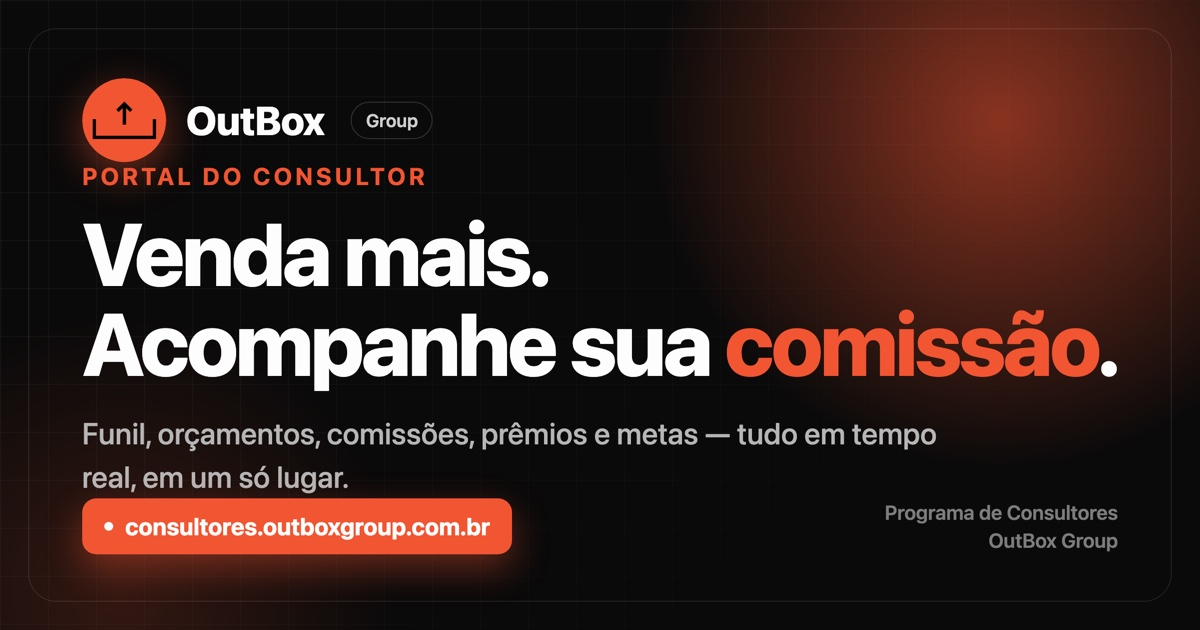
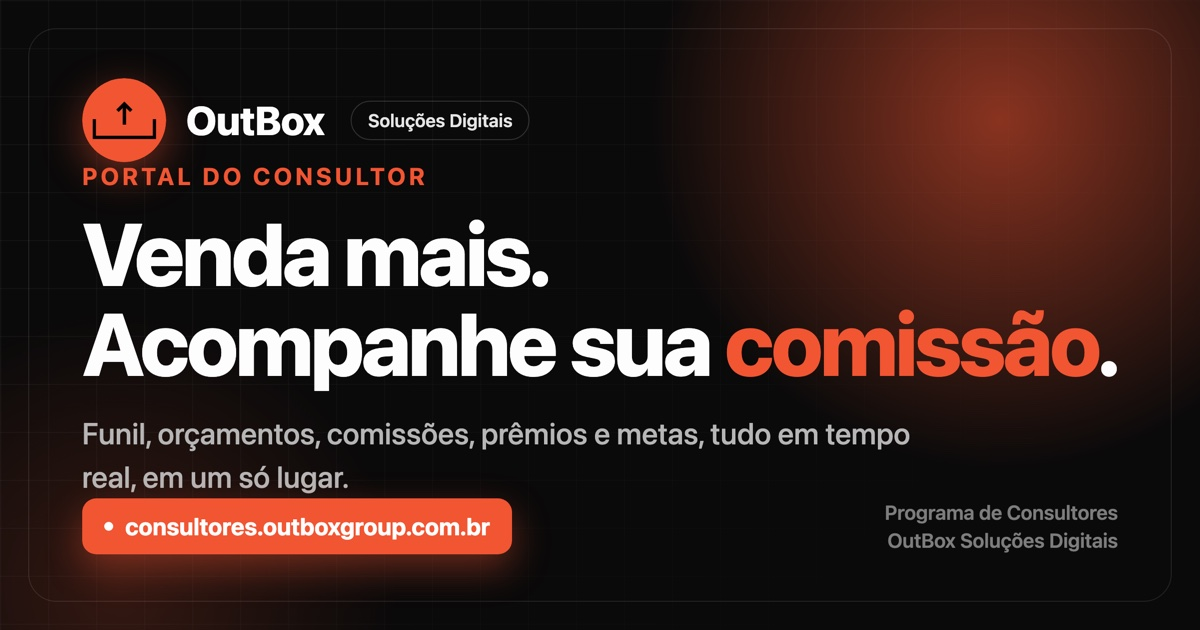
brand: descritor 'OutBox Solucoes Digitais' no sistema + OpenGraph
- Substitui 'OutBox Group' por 'OutBox Solucoes Digitais' nos textos de marca (login, orcamento, docs, aceite); mantem dominio/email outboxgroup.com.br
- Descritor 'Solucoes Digitais' na sidebar (abaixo do logo)
- OG image e meta tags atualizados com o descritor

Changed region(s): [[0.5858, 0.6635, 0.7708, 0.7238], [0.74, 0.8444, 0.925, 0.8746], [0.3083, 0.181, 0.4317, 0.2413]]

diff --git a/js/consultor.js b/js/consultor.js
@@ -640,7 +640,7 @@ const Consultor = {
 <link href="https://fonts.googleapis.com/css2?family=Inter:wght@400;500;600;700;800;900&display=swap" rel="stylesheet">
 <style>:root{--brand:#F15532;--ink:#0A0A0A;--soft:#46505c;--mut:#8a96a3;--bg:#F5F7F9;--line:#e6eaef}*{box-sizing:border-box;margin:0;padding:0}body{font-family:'Inter',sans-serif;color:var(--ink);background:var(--bg);line-height:1.6;-webkit-print-color-adjust:exact;print-color-adjust:exact}.page{max-width:820px;margin:0 auto;background:#fff;min-height:100vh;box-shadow:0 10px 40px rgba(0,0,0,.06)}.cover{background:linear-gradient(135deg,#F15532,#e0431f);color:#fff;padding:40px 48px}.brand{display:flex;align-items:center;gap:12px;margin-bottom:22px}.brand b{font-size:24px;font-weight:800}.cover h1{font-size:30px;font-weight:800;letter-spacing:-.02em}.cover p{color:rgba(255,255,255,.9);margin-top:4px}.body{padding:38px 48px}.grid{display:grid;grid-template-columns:1fr 1fr;gap:8px 24px;margin-bottom:28px;font-size:14px}.grid .lbl{color:var(--mut);font-size:12px;text-transform:uppercase;letter-spacing:.04em}.tbl{width:100%;border-collapse:collapse;margin-bottom:18px}.tbl th{text-align:left;padding:12px 14px;background:var(--bg);border-bottom:2px solid var(--line);font-size:12px;text-transform:uppercase;color:var(--mut)}.tbl td{padding:14px;border-bottom:1px solid var(--line)}.tot{display:flex;justify-content:flex-end}.tot .box{min-width:280px}.tot .row{display:flex;justify-content:space-between;padding:8px 0;font-size:15px;color:var(--soft)}.tot .grand{border-top:2px solid var(--line);margin-top:6px;padding-top:14px;font-size:22px;font-weight:800;color:var(--ink)}.tot .grand b{color:var(--brand)}.note{margin-top:26px;padding:16px 18px;background:var(--bg);border-radius:12px;font-size:13px;color:var(--soft);border:1px solid var(--line)}.foot{border-top:1px solid var(--line);padding:24px 48px;color:var(--mut);font-size:13px;display:flex;justify-content:space-between;flex-wrap:wrap;gap:10px}.foot b{color:var(--ink)}.print-hint{position:fixed;bottom:16px;right:16px;background:var(--brand);color:#fff;padding:10px 16px;border-radius:10px;font-weight:600;cursor:pointer;border:none;box-shadow:0 8px 20px rgba(241,85,50,.3)}.cta{display:flex;gap:12px;flex-wrap:wrap;margin:26px 0 4px}.cta a,.cta span{flex:1;min-width:200px;text-align:center;padding:16px 20px;border-radius:12px;font-weight:700;font-size:15px;text-decoration:none;display:inline-flex;align-items:center;justify-content:center;gap:8px;transition:transform .1s,box-shadow .2s}.cta a:active{transform:translateY(1px)}.cta .accept{background:var(--brand);color:#fff;box-shadow:0 8px 20px rgba(241,85,50,.28)}.cta .pay{background:#16a34a;color:#fff;box-shadow:0 8px 20px rgba(22,163,74,.26)}.cta .done{background:#e8f7ee;color:#15803d;border:1px solid #b7e4c7;box-shadow:none}@media print{.print-hint{display:none}.cta{display:none}.page{box-shadow:none}}</style></head>
 <body><div class="page">
-  <div class="cover"><div class="brand">${mark}<b>OutBox</b></div><h1>Proposta de Orçamento</h1><p>Preparada por ${u.nome || ''} ${u.sobrenome || ''} · Consultor OutBox Group</p></div>
+  <div class="cover"><div class="brand">${mark}<b>OutBox</b></div><h1>Proposta de Orçamento</h1><p>Preparada por ${u.nome || ''} ${u.sobrenome || ''} · Consultor OutBox Soluções Digitais</p></div>
   <div class="body">
     <div class="grid">
       <div><div class="lbl">Cliente</div>${cli ? cli.nome : '-'}</div>
@@ -649,7 +649,7 @@ const Consultor = {
       <div><div class="lbl">Validade</div>${val.toLocaleDateString('pt-BR')}</div>
     </div>
     <table class="tbl"><thead><tr><th>Serviço</th><th style="text-align:right">Valor</th></tr></thead>
-      <tbody><tr><td><b>${p ? p.nome : s.produto}</b><br><span style="color:var(--mut);font-size:13px">Desenvolvido pela OutBox Group</span></td><td style="text-align:right">${OB.money(s.valorBruto || s.valor, s.moeda)}</td></tr></tbody></table>
+      <tbody><tr><td><b>${p ? p.nome : s.produto}</b><br><span style="color:var(--mut);font-size:13px">Desenvolvido pela OutBox Soluções Digitais</span></td><td style="text-align:right">${OB.money(s.valorBruto || s.valor, s.moeda)}</td></tr></tbody></table>
     <div class="tot"><div class="box">
       <div class="row"><span>Subtotal</span><span>${OB.money(s.valorBruto || s.valor, s.moeda)}</span></div>
       ${temDesc ? `<div class="row"><span>Desconto ${s.descontoTipo === 'percent' ? '(' + s.descontoValor + '%)' : ''}</span><span>- ${OB.money((s.valorBruto || s.valor) - s.valor, s.moeda)}</span></div>` : ''}
@@ -668,7 +668,7 @@ const Consultor = {
     })()}
     <div class="note">Esta proposta tem validade de 7 dias. Ao aprovar, iniciamos o briefing e o cronograma do seu projeto.</div>
   </div>
-  <div class="foot"><div>OutBox Group · Proposta comercial<br><b>${u.email || 'felipe@outboxgroup.com.br'}</b>${u.celular ? ' · ' + u.celular : ''}</div><div>www.outboxgroup.com.br<br>Santa Cruz do Rio Pardo · SP</div></div>
+  <div class="foot"><div>OutBox Soluções Digitais · Proposta comercial<br><b>${u.email || 'felipe@outboxgroup.com.br'}</b>${u.celular ? ' · ' + u.celular : ''}</div><div>www.outboxgroup.com.br<br>Santa Cruz do Rio Pardo · SP</div></div>
 </div><button class="print-hint" onclick="window.print()">Salvar como PDF / Imprimir</button></body></html>`;
   },
   /* abre o orçamento renderizado em uma nova aba (apenas visualização) */
@@ -1261,7 +1261,7 @@ const Consultor = {
       ${secoes}
     </div>
     <div class="foot">
-      <div>OutBox Group · Programa de Consultores<br><b>felipe@outboxgroup.com.br</b> · (47) 9.9659-7775</div>
+      <div>OutBox Soluções Digitais · Programa de Consultores<br><b>felipe@outboxgroup.com.br</b> · (47) 9.9659-7775</div>
       <div>www.outboxgroup.com.br<br>Santa Cruz do Rio Pardo · SP</div>
     </div>
   </div>
@@ -1343,7 +1343,7 @@ const Consultor = {
         <div>
           <div class="card" style="margin-bottom:18px">
             <div class="card-head"><h3>Precisa de ajuda?</h3></div>
-            <p class="soft" style="font-size:14px;margin-bottom:16px">Fale direto com o time da OutBox Group. Respondemos em horário comercial.</p>
+            <p class="soft" style="font-size:14px;margin-bottom:16px">Fale direto com o time da OutBox Soluções Digitais. Respondemos em horário comercial.</p>
             <a class="btn green block" href="https://wa.me/5547996597775?text=Ol%C3%A1!%20Preciso%20de%20ajuda%20com%20o%20sistema%20de%20consultores." target="_blank" rel="noopener" style="margin-bottom:10px">${UI.icon('whats',16)} Falar no WhatsApp</a>
             <a class="btn ghost block" href="mailto:felipe@outboxgroup.com.br">${UI.icon('mail',16)} felipe@outboxgroup.com.br</a>
           </div>

diff --git a/index.html b/index.html
@@ -4,29 +4,29 @@
   <meta charset="UTF-8"/>
   <meta name="viewport" content="width=device-width, initial-scale=1, viewport-fit=cover"/>
   <title>OutBox Consultores — Portal de Vendas</title>
-  <meta name="description" content="Portal do Consultor OutBox Group: vendas, clientes, comissões, prêmios e metas em tempo real."/>
+  <meta name="description" content="Portal do Consultor OutBox Soluções Digitais: vendas, clientes, comissões, prêmios e metas em tempo real."/>
   <meta name="theme-color" content="#F15532"/>
   <link rel="icon" href="assets/logo-mark.svg" type="image/svg+xml"/>
 
   <!-- OpenGraph (compartilhamento de link) -->
   <meta property="og:type" content="website"/>
-  <meta property="og:site_name" content="OutBox Group"/>
+  <meta property="og:site_name" content="OutBox Soluções Digitais"/>
   <meta property="og:locale" content="pt_BR"/>
   <meta property="og:url" content="https://consultores.outboxgroup.com.br/"/>
-  <meta property="og:title" content="Portal do Consultor · OutBox Group"/>
+  <meta property="og:title" content="Portal do Consultor · OutBox Soluções Digitais"/>
   <meta property="og:description" content="Funil, orçamentos, comissões, prêmios e metas — tudo em tempo real, em um só lugar."/>
-  <meta property="og:image" content="https://consultores.outboxgroup.com.br/assets/og-image.jpg?v=42"/>
-  <meta property="og:image:secure_url" content="https://consultores.outboxgroup.com.br/assets/og-image.jpg?v=42"/>
+  <meta property="og:image" content="https://consultores.outboxgroup.com.br/assets/og-image.jpg?v=43"/>
+  <meta property="og:image:secure_url" content="https://consultores.outboxgroup.com.br/assets/og-image.jpg?v=43"/>
   <meta property="og:image:type" content="image/jpeg"/>
   <meta property="og:image:width" content="1200"/>
   <meta property="og:image:height" content="630"/>
-  <meta property="og:image:alt" content="OutBox Group — Portal do Consultor"/>
+  <meta property="og:image:alt" content="OutBox Soluções Digitais — Portal do Consultor"/>
   <!-- Twitter / X -->
   <meta name="twitter:card" content="summary_large_image"/>
-  <meta name="twitter:title" content="Portal do Consultor · OutBox Group"/>
+  <meta name="twitter:title" content="Portal do Consultor · OutBox Soluções Digitais"/>
   <meta name="twitter:description" content="Funil, orçamentos, comissões, prêmios e metas — tudo em tempo real, em um só lugar."/>
-  <meta name="twitter:image" content="https://consultores.outboxgroup.com.br/assets/og-image.jpg?v=42"/>
-  <link rel="stylesheet" href="css/styles.css?v=42"/>
+  <meta name="twitter:image" content="https://consultores.outboxgroup.com.br/assets/og-image.jpg?v=43"/>
+  <link rel="stylesheet" href="css/styles.css?v=43"/>
   <script src="https://cdn.jsdelivr.net/npm/chart.js@4.4.1/dist/chart.umd.min.js"></script>
   <script src="https://cdn.jsdelivr.net/npm/@supabase/supabase-js@2"></script>
 </head>
@@ -41,13 +41,13 @@
   <div class="modal-bg" id="modal-bg"></div>
   <div id="toasts"></div>
 
-  <script src="js/supabase.js?v=42"></script>
-  <script src="js/data.js?v=42"></script>
-  <script src="js/ui.js?v=42"></script>
-  <script src="js/charts.js?v=42"></script>
-  <script src="js/auth.js?v=42"></script>
-  <script src="js/consultor.js?v=42"></script>
-  <script src="js/admin.js?v=42"></script>
-  <script src="js/app.js?v=42"></script>
+  <script src="js/supabase.js?v=43"></script>
+  <script src="js/data.js?v=43"></script>
+  <script src="js/ui.js?v=43"></script>
+  <script src="js/charts.js?v=43"></script>
+  <script src="js/auth.js?v=43"></script>
+  <script src="js/consultor.js?v=43"></script>
+  <script src="js/admin.js?v=43"></script>
+  <script src="js/app.js?v=43"></script>
 </body>
 </html>

diff --git a/js/app.js b/js/app.js
@@ -62,7 +62,7 @@ const App = {
           data.ja
             ? 'Esta proposta já estava confirmada. Seu consultor foi avisado e dará seguimento ao projeto.'
             : 'Obrigado! Seu aceite foi registrado e o consultor já foi notificado. Em breve iniciamos o briefing do seu projeto.',
-          '<p style="margin-top:18px;font-size:13px;color:#8a96a3">OutBox Group · obrigado pela confiança</p>');
+          '<p style="margin-top:18px;font-size:13px;color:#8a96a3">OutBox Soluções Digitais · obrigado pela confiança</p>');
       } else {
         host.innerHTML = card(alert, '#dc2626', 'Não foi possível confirmar',
           (data && data.erro === 'token') ? 'Este link de aceite não confere. Peça ao seu consultor para reenviar a proposta.' : 'Proposta não encontrada. Fale com o seu consultor.');
@@ -113,9 +113,10 @@ const App = {
       <div class="shell">
         <aside class="sidebar" id="sidebar">
           <div class="brand-row">
-            <img data-logo src="assets/logo-${this.theme === 'dark' ? 'branca' : 'preta'}.svg" alt="OutBox"/>
+            <img data-logo src="assets/logo-${this.theme === 'dark' ? 'branca' : 'preta'}.svg" alt="OutBox Soluções Digitais"/>
             <span class="side-tag">${isAdmin ? 'Admin' : 'Consultor'}</span>
           </div>
+          <div class="brand-desc">Soluções Digitais</div>
           <nav class="nav" id="nav">
             ${nav.map(n => `<button class="nav-item" data-view="${n.id}">${UI.icon(n.icon)}<span>${n.label}</span>${n.soon ? '<span class="soon-badge">em breve</span>' : ''}${n.id === 'financeiro' ? '<span class="badge hidden" id="fin-badge"></span>' : ''}</button>`).join('')}
           </nav>

diff --git a/js/auth.js b/js/auth.js
@@ -10,8 +10,8 @@ const Auth = {
     return `
     <div class="grid-fx"></div>
     <div>
-      <img class="a-logo" src="assets/logo-branca.svg" alt="OutBox Group"/>
-      <h1>Portal do <b>Consultor</b><br/>OutBox Group</h1>
+      <img class="a-logo" src="assets/logo-branca.svg" alt="OutBox Soluções Digitais"/>
+      <h1>Portal do <b>Consultor</b><br/>OutBox Soluções Digitais</h1>
       <p>Gerencie suas vendas, clientes, comissões e prêmios em um só lugar. Acompanhe suas metas em tempo real e cresça de Bronze a Black.</p>
     </div>
     <div class="auth-feats">
@@ -75,7 +75,7 @@ const Auth = {
     document.getElementById('auth-card').innerHTML = `
       <img class="mob-logo" src="assets/logo-${App.theme === 'dark' ? 'branca' : 'preta'}.svg"/>
       <h2>Criar conta</h2>
-      <p class="sub">Comece a vender com a OutBox Group</p>
+      <p class="sub">Comece a vender com a OutBox Soluções Digitais</p>
 
       <form id="form-signup">
         <div class="grid-2">

diff --git a/css/styles.css b/css/styles.css
@@ -230,8 +230,10 @@ img { max-width: 100%; display: block; }
   display: flex; flex-direction: column; padding: 22px 16px; gap: 6px;
   position: sticky; top: 0; height: 100dvh;
 }
-.sidebar .brand-row { display: flex; align-items: center; gap: 10px; padding: 4px 8px 18px; }
+.sidebar .brand-row { display: flex; align-items: center; gap: 10px; padding: 4px 8px 4px; }
 .sidebar .brand-row img { height: 30px; }
+.sidebar .brand-desc { font-size: 11px; font-weight: 600; letter-spacing: .06em; text-transform: uppercase;
+  color: var(--text-mut); padding: 0 8px 16px; }
 .side-tag { font-size: 10px; font-weight: 700; letter-spacing: .12em; text-transform: uppercase;
   color: var(--brand); background: var(--brand-soft); padding: 3px 8px; border-radius: 6px; }
 .nav { display: flex; flex-direction: column; gap: 3px; flex: 1; }
